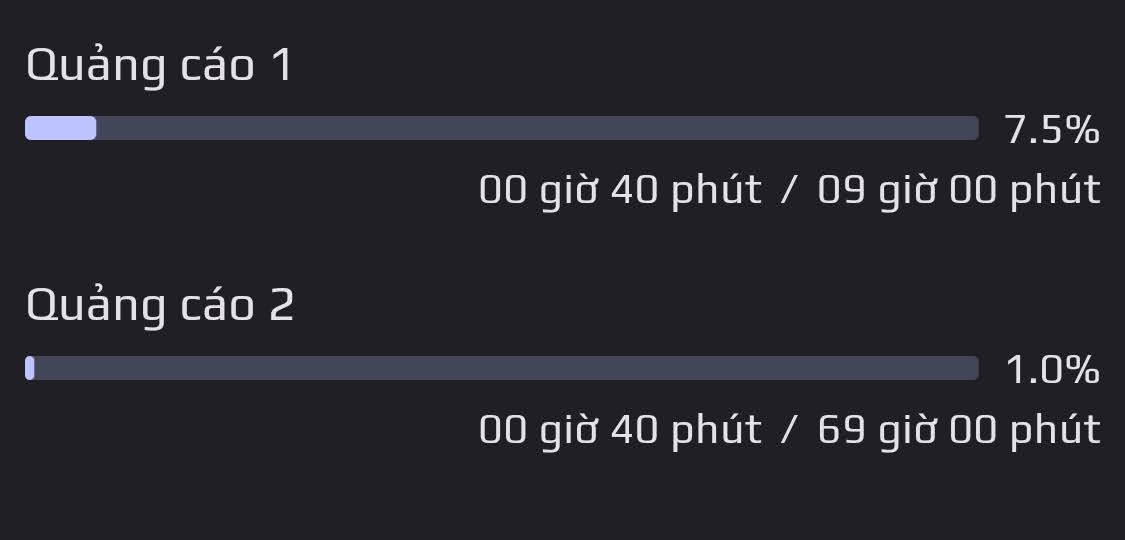
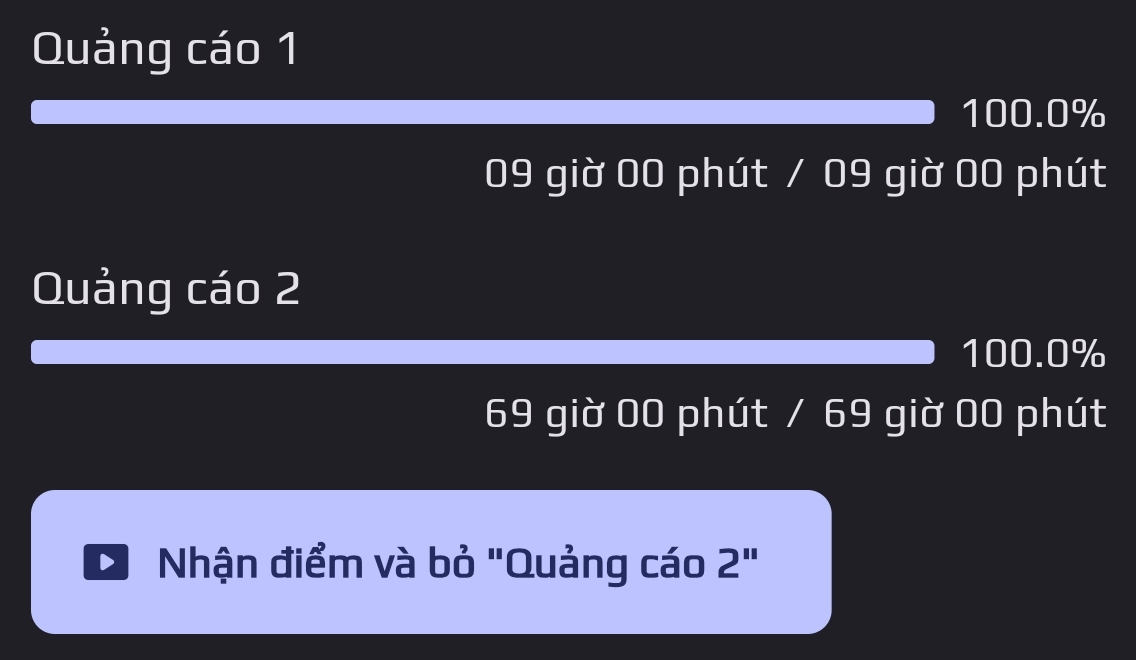
-

diff --git a/docs/guide/ad_policy/main.md b/docs/guide/ad_policy/main.md
@@ -1,39 +1,13 @@
 # Ứng dụng này có chứa quảng cáo!
 
-## 1. Lý do ứng dụng có chứa quảng cáo
-
-![Đánh giá hôm mùng 2 Tết Nguyên Đán](images/review_1.jpg)
-
-Mình chèn quảng cáo vào app không phải là để "tế ông nội" đâu bạn!
-
-Mình cũng đâu thể nào hít không khí để sống qua ngày và làm ứng dụng được đâu.
-
-Việc tạo tài khoản để đưa ứng dụng lên CH Play cũng đã tốn hơn 600k (khoảng 25USD), còn để đưa ứng dụng lên App Store thì sẽ phải tốn khoảng 2tr500. Đó là khoản phí rất nhỏ lúc đầu, ngoài ra còn vô số các khoản chi phí rất lớn phía sau.
-
-Để xây dụng một kho theme (chủ đề), mình cần một máy chủ. Mà để có tiền duy trì máy chủ, mình cần tạo ứng dụng trả phí hoặc chèn quảng cáo. Mình mong các bạn có thể thông cảm.
-
-## 2. Số lượng và thời gian quảng cáo
+## 1. Số lượng và thời gian quảng cáo
 
 ![Quảng cáo chỉ hiển thị khi đạt 100%](images/ad_status.jpg)
 
-### 2.1 Quảng cáo 1
+### 1.1 Quảng cáo 1
 
-- Hiển thị quảng cáo sau mỗi 9 giờ - Tránh việc hiển thị quảng mỗi lần bạn mở ứng dụng gây phiền.
+- Hiển thị __1 lần sau mỗi 9 giờ__ - Tránh việc hiển thị quảng mỗi lần bạn mở ứng dụng gây phiền.
 
-- Quảng cáo kéo dài từ 5 giây tới 30 giây (Quảng cáo là do google cấp, mình không can thiệp được). Bạn có thể nhấn vào nút (X) phía trên quảng cáo để tắt mà không phải xem hết 40 giây đâu bạn. Thông thường, bạn có thể tắt quảng cáo sau 5 giây.
+### 1.2 Quảng cáo 2
 
-- Ý nghĩa: Chi phí duy trì ứng dụng
-
-### 2.2 Quảng cáo 2
-
-- Hiển thị sau mỗi 69 giờ
-
-- Ý nghĩa: Chi phí việc phát triển tính năng mới
-
-### 2.3 Các quảng cáo khác
-
-- Tự dộng được ẩn, bạn cần phải tự bật thì mới được hiển thị.
-
-## 3. Phụ lục
-
-![Khi hỏi chatGPT "Chi phí cho một ứng dụng nhỏ có máy chủ đi kèm" - Chưa bao gồm công làm app](images/chi_phi.png)
+- Hiển thị __1 lần sau mỗi 69 giờ__. Bạn cần nhấn vào nút __"Nhận điểm và bỏ Quảng cáo 2"__ để xem nó. Mình làm vậy là để tránh việc quảng cáo được hiển thị 2 lần liên tiếp khi bạn mở ứng dụng và gây ảnh hưởng đến trải nghiệm của bạn.
